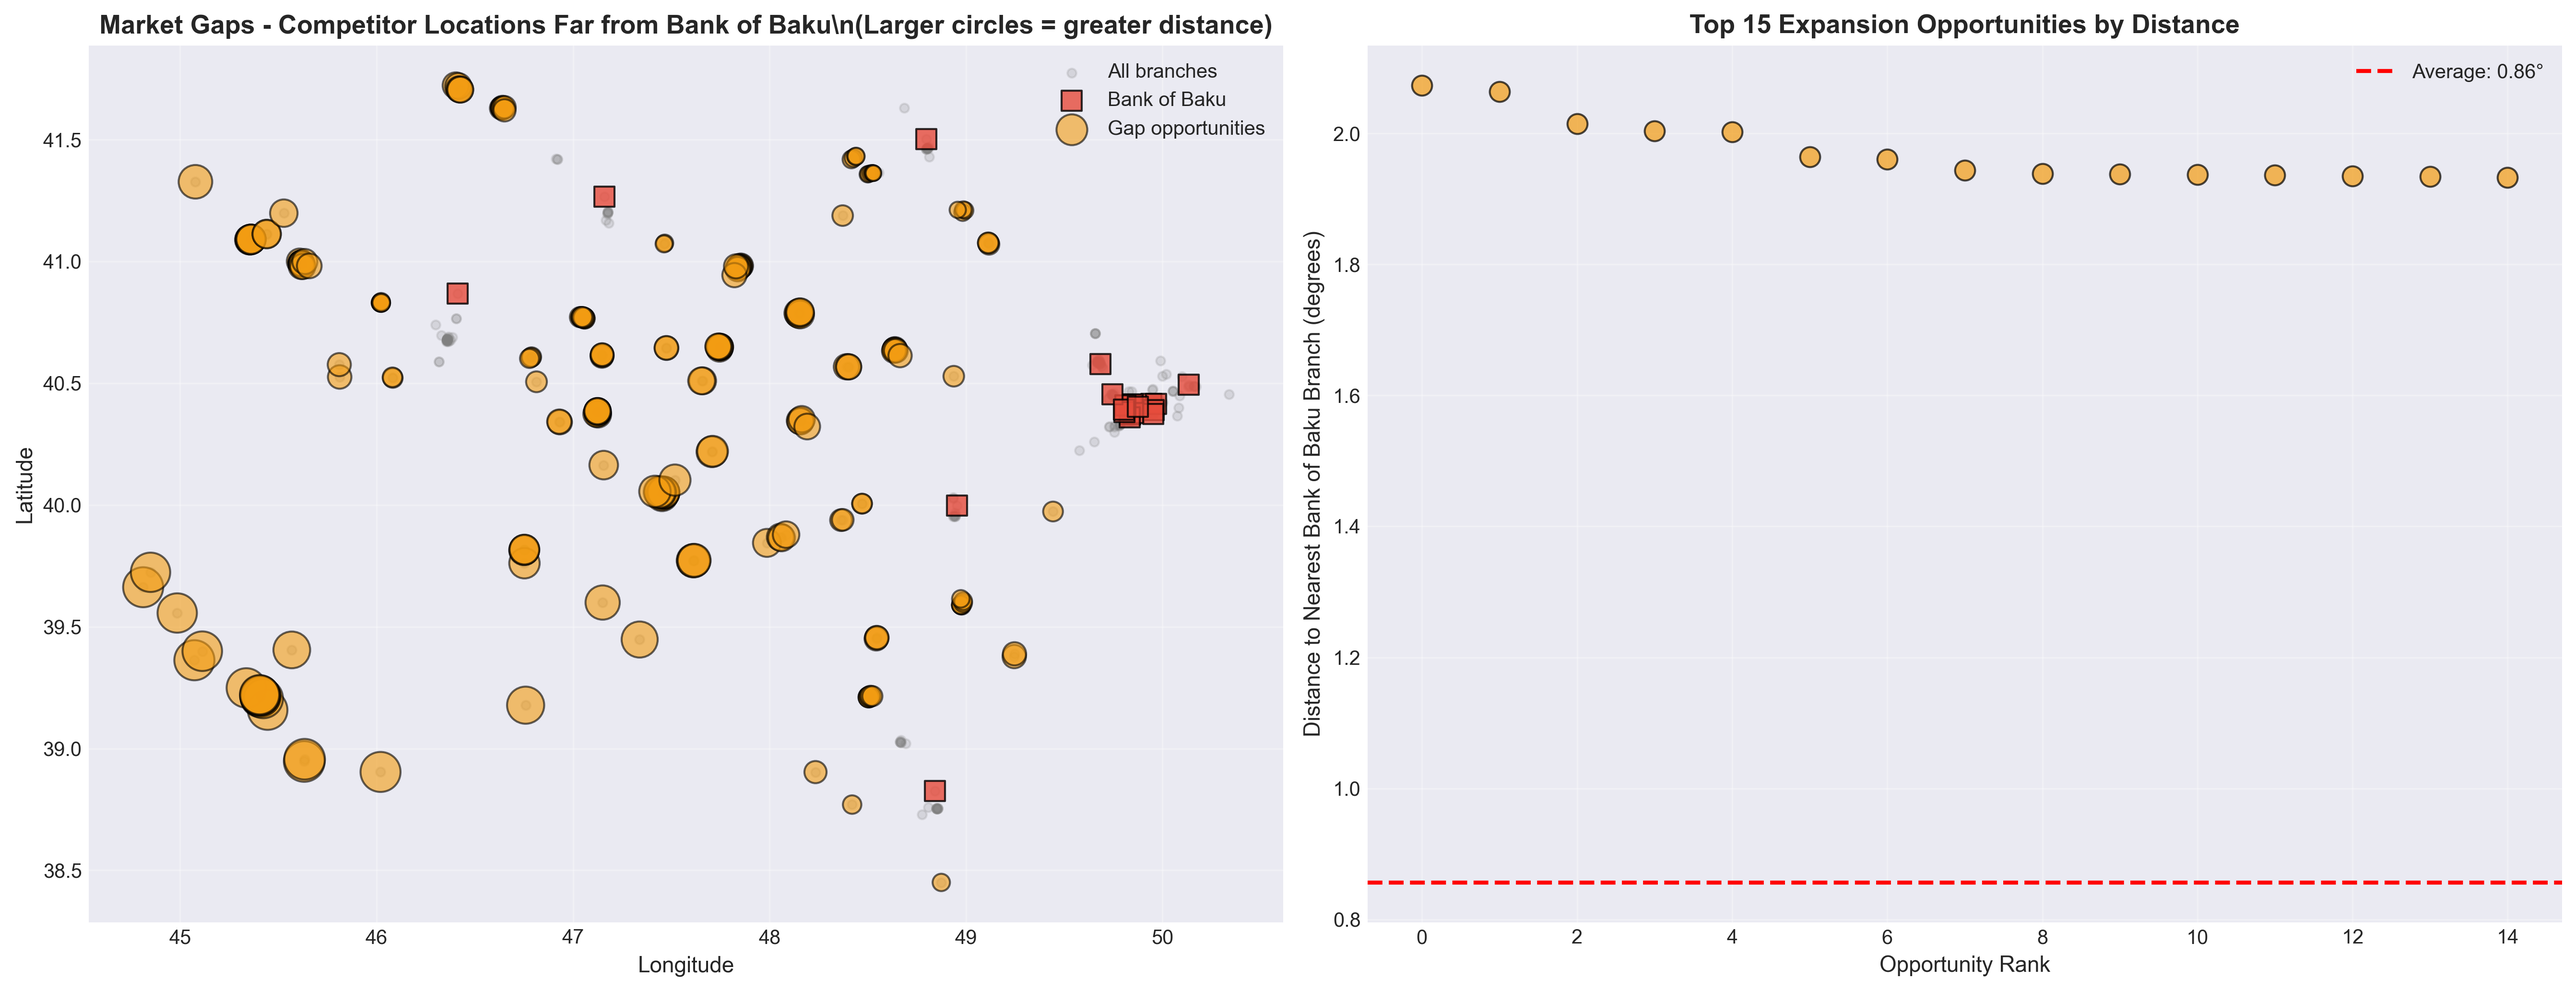
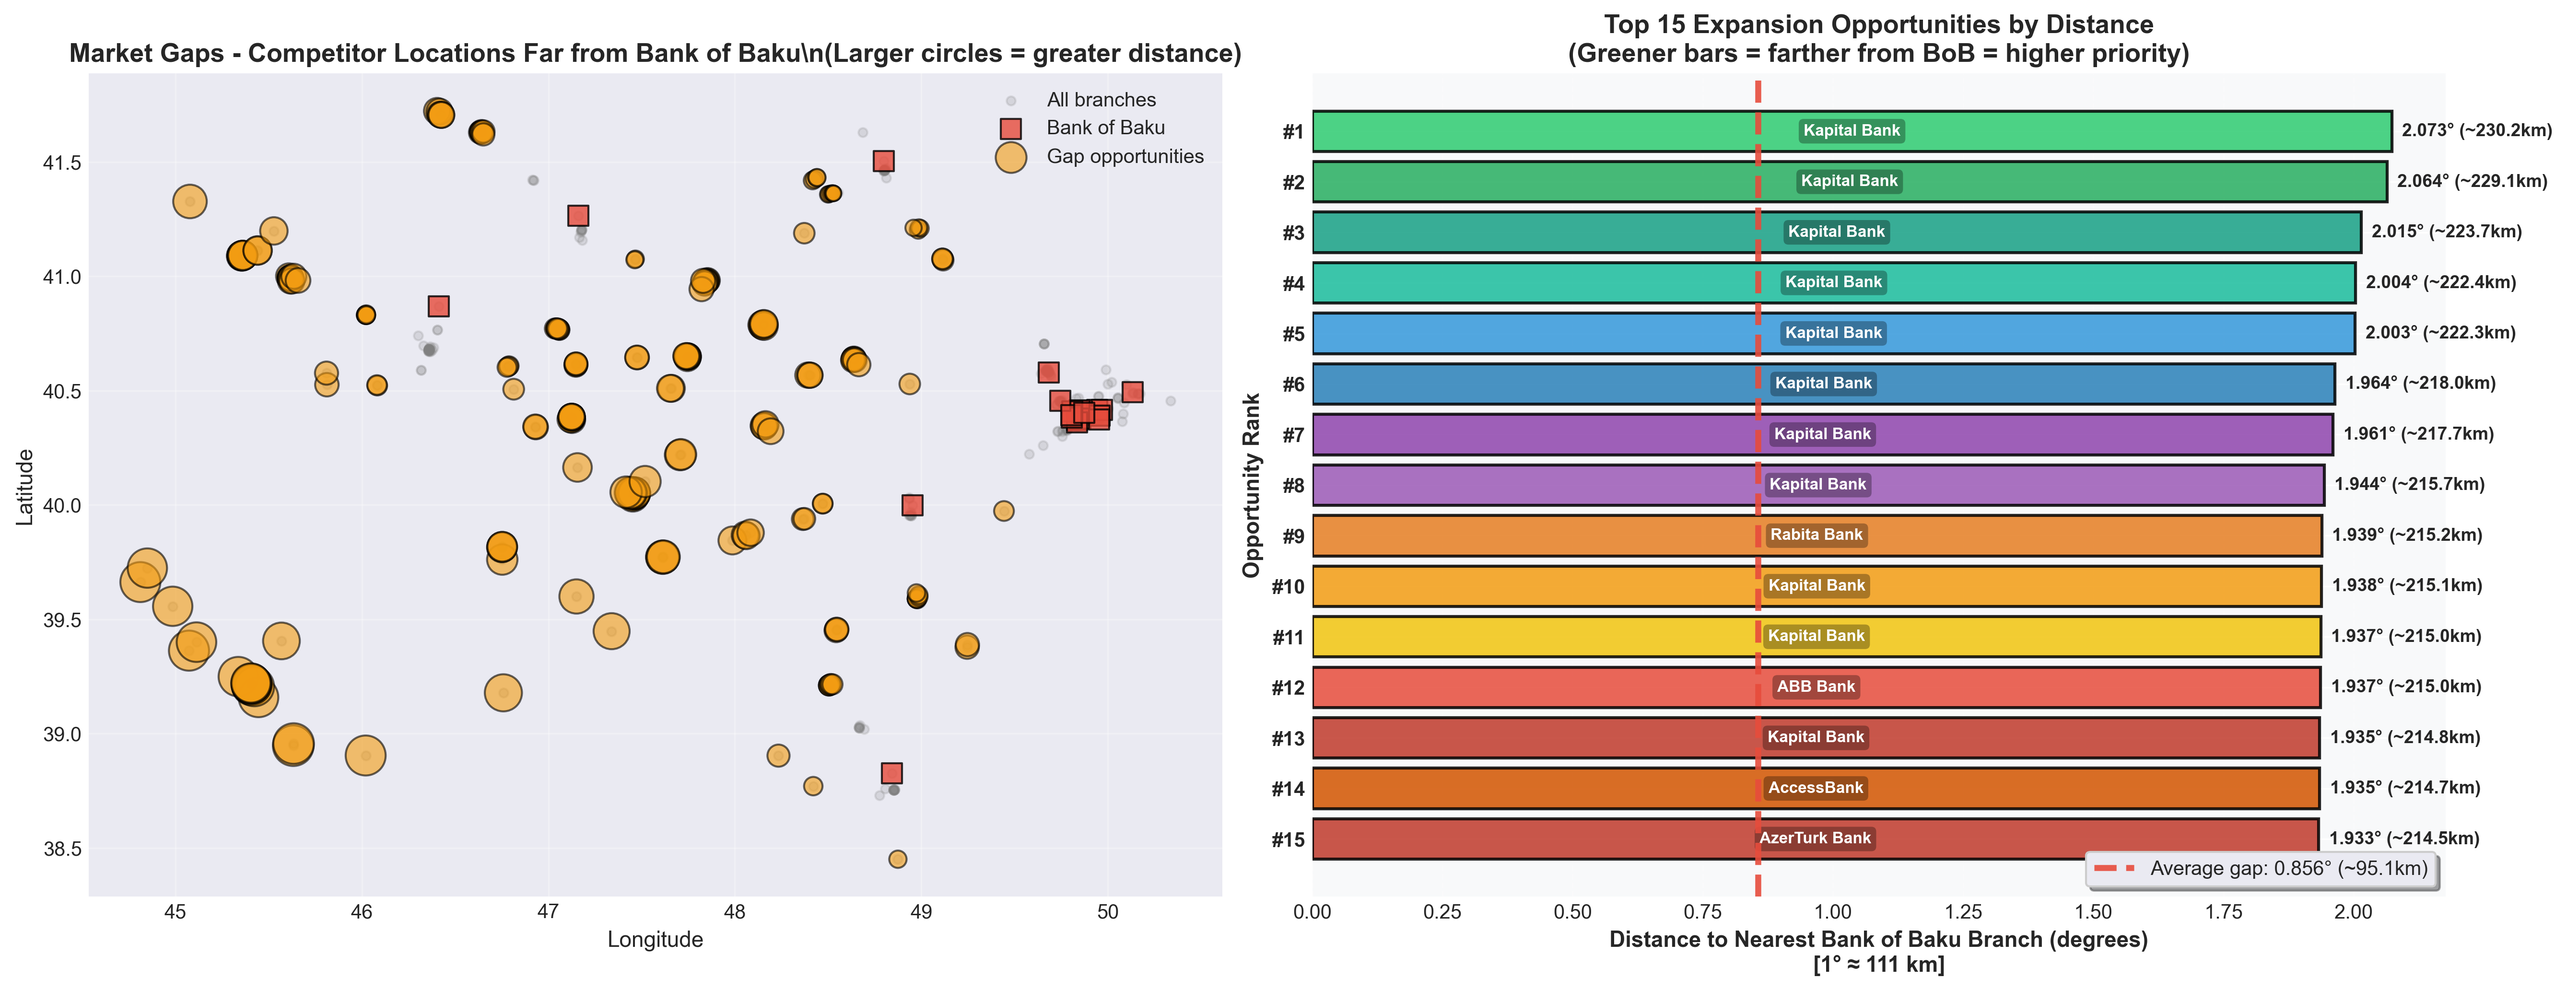
done
Source: https://github.com/GameHelix/yahtzee/commit/f00c22500b60ff2a9a6c0764370dadd12eec6782

diff --git a/earlier/GameHelix/yahtzee/scripts/run_analysis.py b/earlier/GameHelix/yahtzee/scripts/run_analysis.py
@@ -588,19 +588,51 @@ ax1.set_title('Market Gaps - Competitor Locations Far from Bank of Baku\\n(Large
 ax1.legend(fontsize=10)
 ax1.grid(True, alpha=0.3)
 
-# Top gap opportunities
-top_gaps = gaps.head(15)
-ax2.scatter(range(len(top_gaps)), top_gaps['distance_to_bob'],
-           s=100, alpha=0.7, color='#f39c12', edgecolors='black', linewidth=1)
-ax2.set_xlabel('Opportunity Rank', fontsize=11)
-ax2.set_ylabel('Distance to Nearest Bank of Baku Branch (degrees)', fontsize=11)
-ax2.set_title('Top 15 Expansion Opportunities by Distance', fontsize=13, fontweight='bold')
-ax2.grid(True, alpha=0.3)
+# Top gap opportunities - Enhanced horizontal bar chart
+top_gaps = gaps.head(15).reset_index(drop=True)
 
-# Add horizontal line for average
-ax2.axhline(y=gaps['distance_to_bob'].mean(), color='r', linestyle='--',
-           label=f'Average: {gaps["distance_to_bob"].mean():.2f}°', linewidth=2)
-ax2.legend(fontsize=10)
+# Create gradient colors (farther = greener, closer = redder)
+colors_gaps = ['#2ecc71', '#27ae60', '#16a085', '#1abc9c', '#3498db',
+               '#2980b9', '#8e44ad', '#9b59b6', '#e67e22', '#f39c12',
+               '#f1c40f', '#e74c3c', '#c0392b', '#d35400', '#c0392b']
+
+# Reverse for bar chart (top is best)
+y_positions = range(len(top_gaps)-1, -1, -1)
+distances = top_gaps['distance_to_bob'].values
+
+bars = ax2.barh(y_positions, distances, color=colors_gaps[:len(top_gaps)],
+                edgecolor='black', linewidth=1.5, alpha=0.85)
+
+# Add value labels with km conversion and bank names
+for i, (y_pos, distance, bank) in enumerate(zip(y_positions, distances, top_gaps['bank'].values)):
+    # Add distance label at end of bar
+    km_dist = distance * 111  # Convert to km
+    ax2.text(distance + 0.02, y_pos, f'{distance:.3f}° (~{km_dist:.1f}km)',
+            va='center', ha='left', fontweight='bold', fontsize=9)
+
+    # Add bank name inside bar
+    bank_label = bank if len(bank) <= 15 else bank[:13] + '..'
+    ax2.text(distance * 0.5, y_pos, bank_label,
+            va='center', ha='center', fontweight='bold', fontsize=8,
+            color='white', bbox=dict(boxstyle='round,pad=0.3',
+            facecolor='black', alpha=0.3, edgecolor='none'))
+
+ax2.set_yticks(y_positions)
+ax2.set_yticklabels([f'#{i+1}' for i in range(len(top_gaps))], fontsize=10, fontweight='bold')
+ax2.set_xlabel('Distance to Nearest Bank of Baku Branch (degrees)\n[1° ≈ 111 km]',
+              fontsize=11, fontweight='bold')
+ax2.set_ylabel('Opportunity Rank', fontsize=11, fontweight='bold')
+ax2.set_title('Top 15 Expansion Opportunities by Distance\n(Greener bars = farther from BoB = higher priority)',
+             fontsize=13, fontweight='bold')
+ax2.grid(True, alpha=0.3, axis='x', linestyle='--')
+ax2.set_facecolor('#f8f9fa')
+
+# Add average line
+avg_distance = gaps['distance_to_bob'].mean()
+ax2.axvline(x=avg_distance, color='#e74c3c', linestyle='--',
+           label=f'Average gap: {avg_distance:.3f}° (~{avg_distance*111:.1f}km)',
+           linewidth=3, zorder=10, alpha=0.9)
+ax2.legend(fontsize=10, frameon=True, fancybox=True, shadow=True, loc='lower right')
 
 plt.tight_layout()
 plt.savefig('charts/09_gap_analysis.png', dpi=300, bbox_inches='tight')
